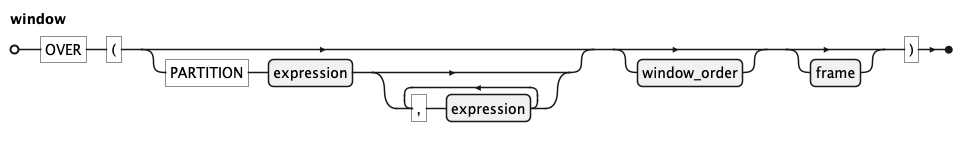
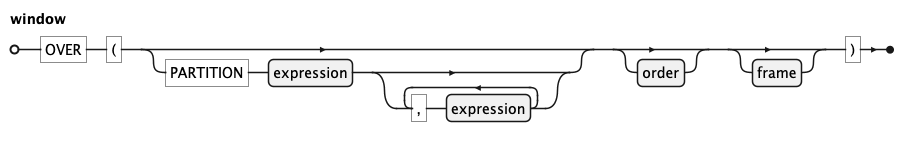
ebnf kql

diff --git a/docs/KQL_EBNF.md b/docs/KQL_EBNF.md
@@ -120,15 +120,15 @@ Source has two IDs:
 
 ## Window Order
 
-![window_order](kql/window_order.png)
+![order](kql/order.png)
 
 ## Frame
 
 ![frame](kql/frame.png)
 
-## Limit
+## Window Limit
 
-![limit](kql/limit.png)
+![window_limit](kql/window_limit.png)
 
 ## Date literal
 
